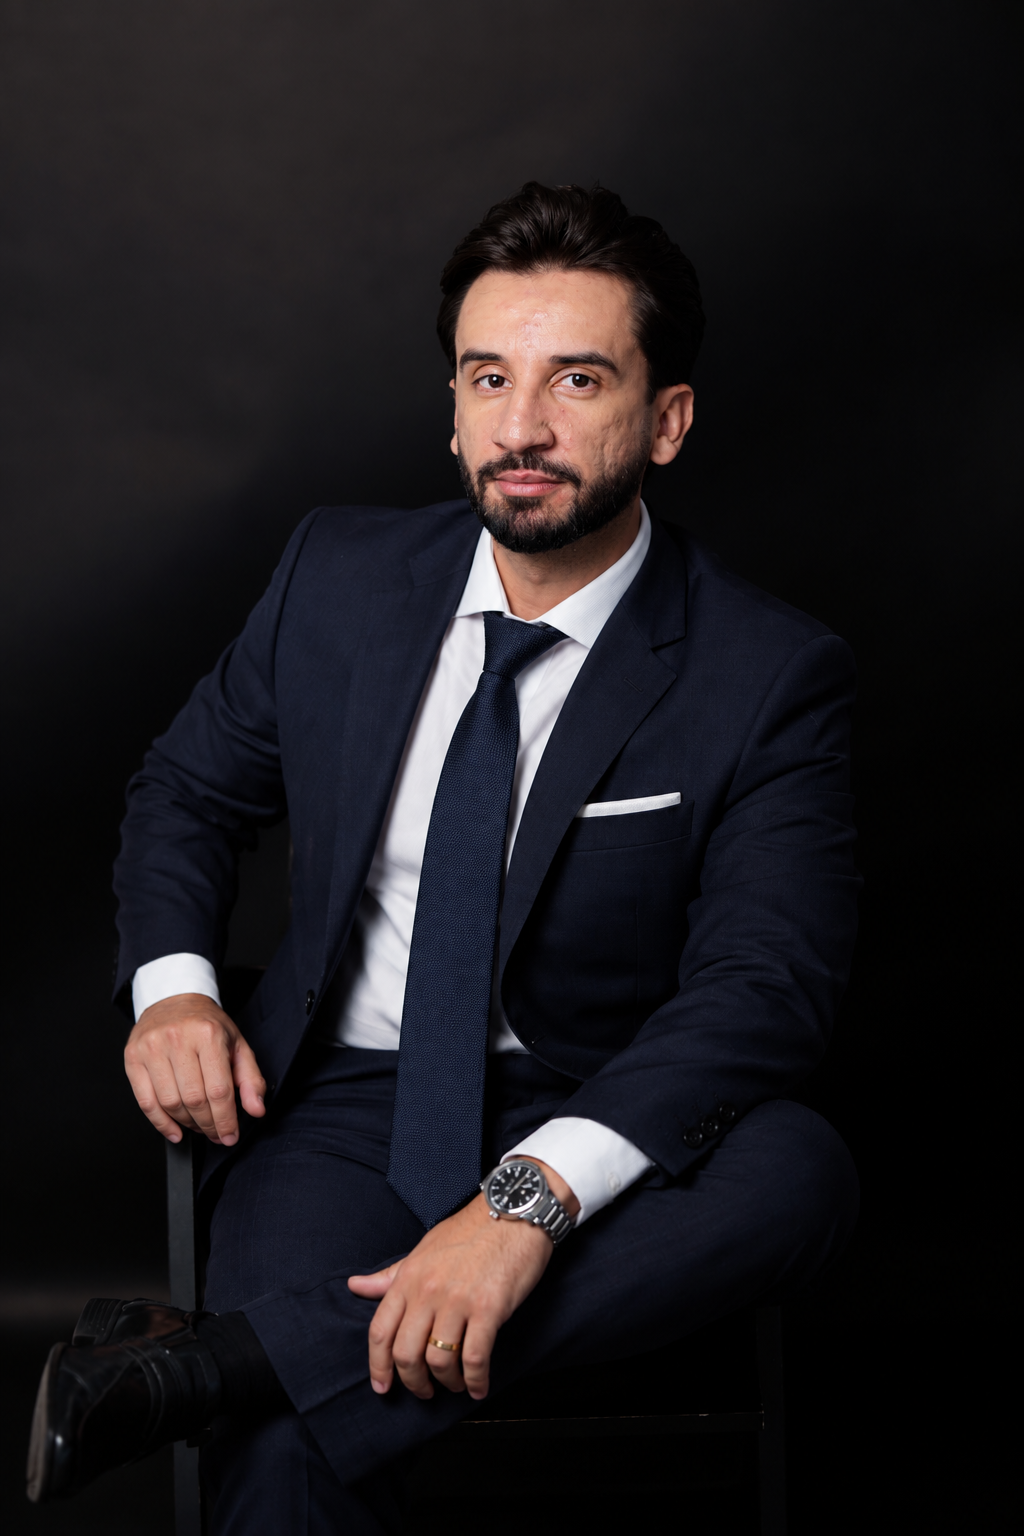
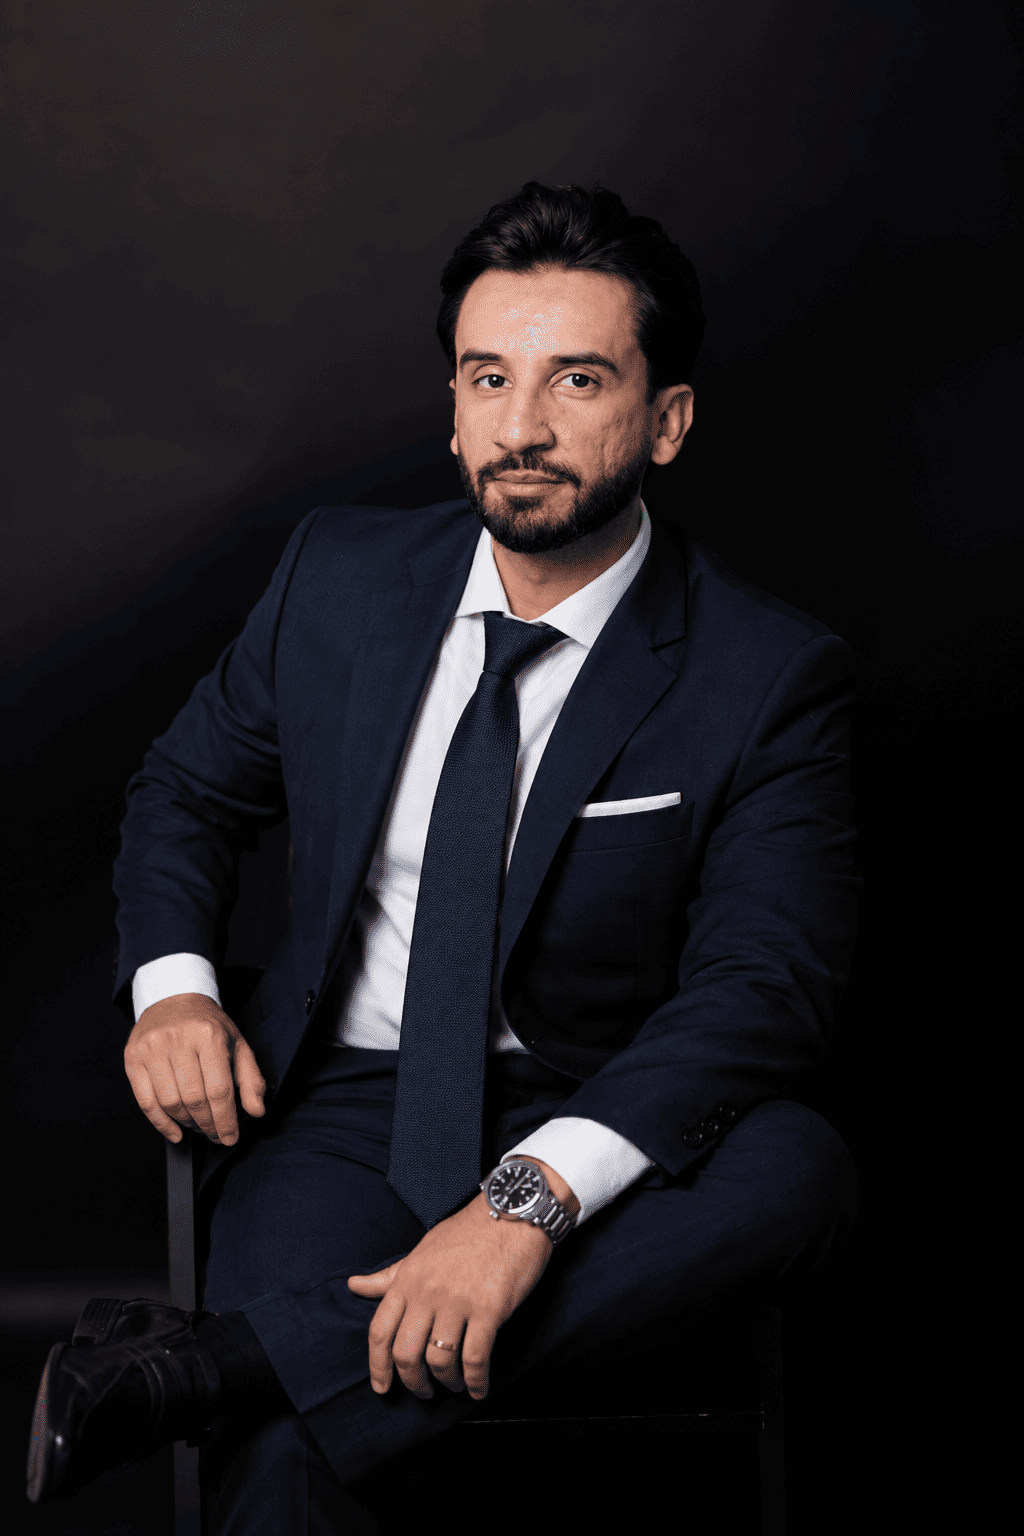
Add files via upload

diff --git a/pabllo perfil.html b/pabllo perfil.html
@@ -222,8 +222,8 @@
 
   <section class="perfil-advogado">
     <div class="perfil-foto" aria-label="Foto do Dr. Pabllo de Sá Mascarenhas com efeito hover">
-      <img src="pabllo 02.jpg" alt="Dr. Pabllo de Sá Mascarenhas">
-      <img src="pabllo 01.jpg" alt="Dr. Pabllo de Sá Mascarenhas (hover)">
+      <img src="pabllo-mascarenhas-sms-advocacia.jpg" alt="Dr. Pabllo de Sá Mascarenhas">
+      <img src="pabllo-mascarenhas-socio-advocacia.jpg" alt="Dr. Pabllo de Sá Mascarenhas (hover)">
     </div>
 
     <div class="perfil-texto">

diff --git a/sarah.html b/sarah.html
@@ -54,8 +54,8 @@
 
   <section class="perfil-advogado">
     <div class="perfil-foto" aria-label="Foto de Sarah Vitória com efeito hover">
-      <img src="sarah 02.jpg" alt="Sarah Vitória">
-      <img src="sarah 01.jpg" alt="Sarah Vitória (hover)">
+      <img src="sarah-equipe-juridica-sms.jpg" alt="Sarah Vitória">
+      <img src="sarah-profissional-advocacia-goiania.jpg" alt="Sarah Vitória (hover)">
     </div>
 
     <div class="perfil-texto">
